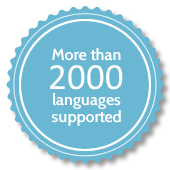
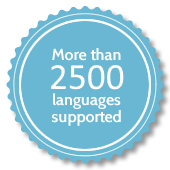
feat: 2500 languages now supported
Test-bot: skip

Changed region(s): [[0.2941, 0.3824, 0.7353, 0.5294]]

diff --git a/index.php b/index.php
@@ -17,7 +17,7 @@ head([
 </div>
 <div class="main1">
     <h1>Type to the world<br/> in your language</h1>
-    <img id="main-banner" src="<?php echo cdn("img/banner.png"); ?>" alt='More than 2000 languages supported' />
+    <img id="main-banner" src="<?php echo cdn("img/banner.png"); ?>" alt='More than 2500 languages supported' />
 </div>
 <div class="main2">
 <!--
@@ -43,7 +43,7 @@ head([
     <div class="section section-blurb">
         <div class='wrapper'>
             <p>
-                Keyman helps you type in over 2000 languages on
+                Keyman helps you type in over 2500 languages on
                 just about any device &mdash; Windows, macOS, Linux, iPhone, iPad, Android tablets and phones, and even instantly in your web browser.
                 Keyman is completely <a href="/free">free and open source</a>!
             </p>
@@ -66,7 +66,7 @@ head([
             <?php require_once('includes/ui/download-links.php'); ?>
 
             <form name="fsearch" action="/keyboards" method="get">
-                <h4>Search over 2000 languages</h4>
+                <h4>Search over 2500 languages</h4>
                 <input type="text" name="q" id="language-search3" placeholder="Enter your language" />
                 <input id="search-submit3" type="image" onclick="if(document.getElementById('language-search3').value==''){return false;}" value="Search" src="<?php echo cdn("img/search-button.png"); ?>" alt="Search button">
             </form>
@@ -110,7 +110,7 @@ head([
                     <img src="<?php echo cdn("img/icon-android2.png"); ?>" alt="Android logo" />
                     <h3>Keyman for Android</h3>
                     <p>
-                        Type in over 2000 languages on your Android device. Touch enabled keyboards for phone, 7-inch and 10-inch tablets ensure a seamless typing solution across any Android device.
+                        Type in over 2500 languages on your Android device. Touch enabled keyboards for phone, 7-inch and 10-inch tablets ensure a seamless typing solution across any Android device.
                     </p>
                 </a>
             </div>

diff --git a/windows/index.php b/windows/index.php
@@ -1,7 +1,7 @@
 <?php
   require_once('includes/template.php');
   require_once __DIR__ . '/../_includes/autoload.php';
-  
+
   // Required
   head([
     'title' =>'Keyman for Windows ' . $stable_version,
@@ -19,7 +19,7 @@
 <br/>
 <h2 class="red underline">Introducing Keyman <?= $stable_version; ?> for Windows</h2>
 <p>
-    With keyboards for over 2000 languages, Keyman for Windows lets you type in your language even when Windows doesn't. You can even create your own custom keyboards with <a href="/developer/">Keyman Developer <?= $stable_version; ?></a>.
+    With keyboards for over 2500 languages, Keyman for Windows lets you type in your language even when Windows doesn't. You can even create your own custom keyboards with <a href="/developer/">Keyman Developer <?= $stable_version; ?></a>.
 </p>
 <p>
     Our unique virtual keyboard technology makes it easy to type in all your programs, including Microsoft Office, Adobe Creative Suite, internet browsers and more, as well as supporting the latest version of Windows.
@@ -154,7 +154,7 @@
     <span class="red">Q.</span> What languages does Keyman support?
 </p>
 <p>
-    <span class="red">A.</span> The short answer is a lot! With keyboards for over 2000 languages, there's a very good chance we have yours covered. You can search for a keyboard for your language <a href="/keyboards/">here</a>. If we don't already have a keyboard available, you can use <a href="/developer/">Keyman Developer <?= $stable_version; ?></a> to build one!
+    <span class="red">A.</span> The short answer is a lot! With keyboards for over 2500 languages, there's a very good chance we have yours covered. You can search for a keyboard for your language <a href="/keyboards/">here</a>. If we don't already have a keyboard available, you can use <a href="/developer/">Keyman Developer <?= $stable_version; ?></a> to build one!
 </p>
 <br/>
 <p>

diff --git a/iphone-and-ipad/index.php b/iphone-and-ipad/index.php
@@ -11,7 +11,7 @@
     'css' => ['template.css','feature-grid.css','app-store-links.css'],
     'showMenu' => true,
     'banner' => [
-      'title' => '2000 languages,<br/>all your apps.',
+      'title' => '2500 languages,<br/>all your apps.',
       'button' => '<a href="'.$appstore.'" target="itunes_store"><img id="app-store" src="cdn(Available_on_the_App_Store_Badge_US-UK_135x40_0824.png)"
         alt="Available on the App Store" /></a>',
       'image' => 'ios-splash.png',
@@ -32,7 +32,7 @@
 ?>
 
 <p>
-  Keyman for iPhone and iPad makes it possible to type in over 2000 languages on your iPhone or iPad.
+  Keyman for iPhone and iPad makes it possible to type in over 2500 languages on your iPhone or iPad.
   Keyman provides system-wide keyboards in iOS 12.1 and later, allowing you to use your keyboard in all your favourite apps.
   <br/><br/>
   Keyman also adds font rendering for languages that even Apple doesn't support.
@@ -228,7 +228,7 @@
 
 <h2 class="red underline">Keyman Engine for iPhone and iPad</h2>
 <p>
-  As always, we make our technology available to app developers!  Keyman Engine for iPhone and iPad is our programming interface for Keyman for iPhone and iPad.  Bringing with it over 2000 languages and multiple keyboards for many of those languages, as well as automatic embedded font support, Keyman Engine for iPhone and iPad makes it straightforward to take your app to the world!
+  As always, we make our technology available to app developers!  Keyman Engine for iPhone and iPad is our programming interface for Keyman for iPhone and iPad.  Bringing with it over 2500 languages and multiple keyboards for many of those languages, as well as automatic embedded font support, Keyman Engine for iPhone and iPad makes it straightforward to take your app to the world!
 </p>
 <br/>
 <p>

diff --git a/engine/index.php b/engine/index.php
@@ -42,7 +42,7 @@
 <h2 class="red underline">Keyman Engine for Web</h2>
 <p>
   Let Keyman power all your typing needs for your new or existing web application or website. With the full-featured
-  standalone Keyman Engine for Web (KeymanWeb), you can integrate over 2000 languages to give you and your users the
+  standalone Keyman Engine for Web (KeymanWeb), you can integrate over 2500 languages to give you and your users the
   simplest solution to typing on your site possible.
   <br/><br/>
   You can of course build your own keyboard layouts using <a href='/developer/'>Keyman Developer</a>, as well as
@@ -56,7 +56,7 @@
 <h2 class="red underline">Keyman Engine for iOS</h2>
 <p>
   Keyman Engine for iOS is our programming interface to integrate Keyman keyboards into your iPhone and iPad
-  applications. Bringing with it over 2000 languages and multiple keyboards for many of those languages, as well as
+  applications. Bringing with it over 2500 languages and multiple keyboards for many of those languages, as well as
   automatic embedded font support, Keyman Engine for iOS makes it straightforward to take your app to
   the world!
   <br/><br/>
@@ -72,7 +72,7 @@
 <h2 class="red underline">Keyman Engine for Android</h2>
 <p>
   Keyman Engine for Android is our programming interface to integrate Keyman keyboards into your Android
-  applications. Bringing with it over 2000 languages and multiple keyboards for many of those languages,
+  applications. Bringing with it over 2500 languages and multiple keyboards for many of those languages,
   Keyman Engine for Android makes it straightforward to take your app to the world!
   <br/><br/>
   You can develop your own keyboard layouts for Keyman for Android with

diff --git a/android/index.php b/android/index.php
@@ -32,7 +32,7 @@
 ?>
 
 <p>
-  Keyman is available for Android devices. Keyman for Android makes it possible to type in over 2000 different languages on
+  Keyman is available for Android devices. Keyman for Android makes it possible to type in over 2500 different languages on
   your Android device, and share the content you enter with friends on Facebook or Twitter, via email or instant messaging!
 </p>
 
@@ -310,7 +310,7 @@
 <h2 class="red underline">Keyman Engine for Android</h2>
 
 <p>
-  As always, we make our technology available to app developers! Keyman Engine for Android is our programming interface for Keyman for Android. Bringing with it over 2000 languages and multiple keyboards for many of those languages, as well as automatic embedded font support, Keyman Engine for Android makes it straightforward to take your app to the world!
+  As always, we make our technology available to app developers! Keyman Engine for Android is our programming interface for Keyman for Android. Bringing with it over 2500 languages and multiple keyboards for many of those languages, as well as automatic embedded font support, Keyman Engine for Android makes it straightforward to take your app to the world!
 </p>
 <br/>
 <p>

diff --git a/_includes/includes/ui/keyboard-details.php b/_includes/includes/ui/keyboard-details.php
@@ -465,13 +465,21 @@ END;
       ?>
         <h2 id='try-header' class='red underline'>Try this keyboard</h2>
         <div id='try-box'>
-          <input type='text' id='try-keyboard'>
-          <div id='osk-host'></div>
+          <div id='try-content'>
+            <input type='text' id='try-keyboard'>
+            <div id='osk-host'></div>
+          </div>
           <div id='try-keymanweb-link'><?= $webtext ?></div>
         </div>
         <script crossorigin="anonymous" src='<?=$cdnUrlBase?>/keymanweb.js'></script>
         <script>
           (function() {
+            if(!window.keyman) {
+              // page failed to load keymanweb.js, perhaps network, perhaps plugin
+              console.warn('`keyman` variable is undefined, not using web keyboard');
+              document.getElementById('try-content').style.display = 'none';
+              return;
+            }
             keyman.init({attachType:'manual'}).then(
               function() {
                 keyman.attachToControl(document.getElementById('try-keyboard'));

diff --git a/mac/index.php b/mac/index.php
@@ -23,7 +23,7 @@
 <br/>
 <h2 class="red underline">Introducing Keyman for macOS</h2>
 <p>
-    Keyman for macOS brings an extensive library of keyboards for over 2000 languages to macOS.
+    Keyman for macOS brings an extensive library of keyboards for over 2500 languages to macOS.
     You can even create your own custom keyboards with <a href="/developer/">Keyman Developer <?php echo $stable_version; ?></a> (a Windows product).
 </p>
 <p>
@@ -131,7 +131,7 @@
     <span class="red">Q.</span> What languages does Keyman support?
 </p>
 <p>
-    <span class="red">A.</span> The short answer is a lot! With keyboards for over 2000 languages,
+    <span class="red">A.</span> The short answer is a lot! With keyboards for over 2500 languages,
     there's a very good chance we have yours covered. You can search for a keyboard for your language
     <a href="/keyboards">here</a>. If we don't already have a keyboard available, you can use
     <a href="/developer/">Keyman Developer <?php echo $stable_version; ?></a> (Windows only) to build one!

diff --git a/linux/index.php b/linux/index.php
@@ -24,7 +24,7 @@
 <br/>
 <h2 class="red underline">Introducing Keyman for Linux</h2>
 <p>
-    Keyman for Linux makes it possible to type in over 2000 languages in any Linux application. Create your own custom
+    Keyman for Linux makes it possible to type in over 2500 languages in any Linux application. Create your own custom
     keyboards with <a href="/developer/">Keyman Developer <?php echo $stable_version; ?></a>*.
 </p>
 <p>
@@ -221,7 +221,7 @@ sudo apt install ibus-kmfl</code></pre>
     <span class="red">Q.</span> What languages does Keyman support?
 </p>
 <p>
-    <span class="red">A.</span> The short answer is a lot! With keyboards for over 2000 languages,
+    <span class="red">A.</span> The short answer is a lot! With keyboards for over 2500 languages,
     there's a very good chance we have yours covered. You can search for a keyboard for your language
     <a href="/keyboards">here</a>. If we don't already have a keyboard available, you can use
     <a href="/developer/">Keyman Developer</a> to build one!

diff --git a/_includes/2020/templates/Menu.php b/_includes/2020/templates/Menu.php
@@ -138,7 +138,7 @@ END;
                 <h3>Keyboards<span class="header-triangle"><img src="<?php echo Util::cdn("img/img_trans.png"); ?>" alt="keyboards dropdown" /></span></h3>
                 <div class="menu-item-dropdown">
                     <div class="menu-dropdown-inner">
-                        <h4>(2000+ languages)</h4>
+                        <h4>(2500+ languages)</h4>
                         <form method="get" action="/keyboards" name="fsearch">
                             <input id="language-search" type="text" placeholder="Enter language" name="q">
                             <input id="search-submit" type="image" src="<?php echo Util::cdn('img/search-button.png'); ?>" value="Search" onclick="if(document.getElementById('language-search').value==''){return false;}">

diff --git a/windows/features.php b/windows/features.php
@@ -461,7 +461,7 @@
             We're as dedicated as ever to making Keyman for Windows the best multi-lingual typing solution for you.
         </p>
         <p>
-            Keyman is used by millions of people in over 2000 languages. All those user experiences feed back into perfecting Keyman.
+            Keyman is used by millions of people in over 2500 languages. All those user experiences feed back into perfecting Keyman.
         </p>
         <p>
             We've worked with a community of developers around the world to create the keyboards we offer, in order to meet the needs of local languages like yours.

diff --git a/_includes/includes/desktop-features.php b/_includes/includes/desktop-features.php
@@ -6,7 +6,7 @@
     <li>Keyman <?= $stable_version ?> for Windows Features</li>
     <li><a href="#setup">Easy Setup</a></li>
     <li><a href="#compatibility">Compatibility</a></li>
-    <li><a href="#keyboard-list">Keyboards for over 2000 Languages Available</a></li>
+    <li><a href="#keyboard-list">Keyboards for over 2500 Languages Available</a></li>
     <li><a href="#keyman-dev">Build Custom Keyboard Layouts</a></li>
     <li><a href="#unicode">Unicode Compliant</a></li>
     <li><a href="#keyboard-limit">Keyboard Limit</a></li>
